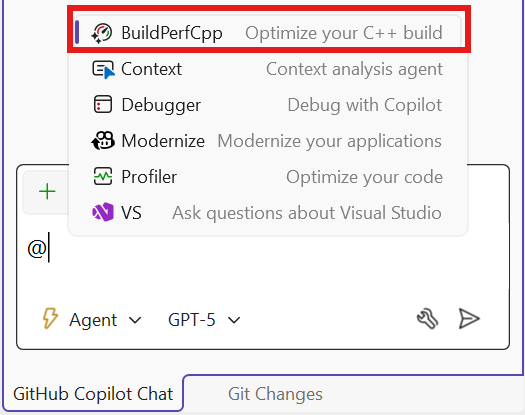
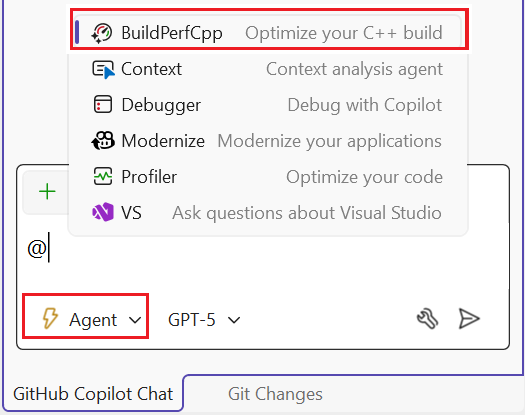
first edit pass

Changed region(s): [[0.1219, 0.0, 0.9143, 0.1446], [0.0305, 0.694, 0.3048, 0.8386]]

diff --git a/docs/build-insights/build-performance.md b/docs/build-insights/build-performance.md
@@ -1,194 +1,176 @@
 ---
 title: "Get Started with GitHub Copilot build performance for Windows"
 description: "Learn how to use GitHub Copilot build performance for Windows to analyze C++ builds, identify expensive headers and templates, and automatically optimize build times in Visual Studio 2026."
-ms.date: 1/20/2026
+ms.date: 01/21/2026
 helpviewer_keywords: ["GitHub Copilot build performance", "C++ Build Insights", "build time optimization", "header file analysis", "template instantiation", "Visual Studio build performance"]
 ms.topic: how-to
 ---
 
-# Get Started with GitHub Copilot build performance for Windows 
+# Get started with GitHub Copilot build performance for Windows 
 
-The GitHub Copilot build performance for Windows analyzes your C++ builds and highlights expensive headers, templates, and functions so you can identify and fix build time bottlenecks. GitHub Copilot integrates seamlessly with Visual Studio, reducing complexity and improving developer productivity.
+The GitHub Copilot build performance for Windows analyzes your C++ builds and highlights expensive headers, template instantiations, and functions so you can identify and fix build time bottlenecks. GitHub Copilot is integrated with Visual Studio.
 
 ## Prerequisites 
 
-- Windows 10 or later.
+- Visual Studio 2026. Install the latest available version here: [Installation Guide](/visualstudio/install/install-visual-studio)
+- MSVC Build Tools version 14.50 or later.
 - An MSBuild or CMake project.
-- MSVC Build Tools version 14.50.
-
-## Installing Visual Studio 2026
-
-To use GitHub Copilot build performance for Windows, you must install the latest available **Visual Studio 2026**.
-
-[Installation Guide](/visualstudio/install/install-visual-studio)
-
-Visual Studio 2026 supports **side-by-side installation** with older versions. You do not need to uninstall previous versions or other release channels. Installing Visual Studio 2026 will not interfere with your existing development environment. 
+- Windows 10 or later.
 
 ### Before you begin 
 
-After installing the Visual Studio Installer, ensure the following components are selected under the **Desktop development with C++** [workload](/visualstudio/install/install-visual-studio#step-4---choose-workloads) during installation:
+In the Visual Studio 2026 Installer, ensure the following components are selected in the **Desktop development with C++** [workload](/visualstudio/install/install-visual-studio#step-4---choose-workloads):
 
-- C++ Build Insights
-- C++ profiling tools
-- C++ CMake tools for Windows (required for CMake projects) 
+- **C++ Build Insights**
+- **C++ profiling tools**
+- **C++ CMake tools for Windows (required for CMake projects)**
 
-:::image type="complex" source="./media/vs-installer-options.png" alt-text="This installer view highlights the available optional components within the Desktop development with C++ workload, helping users confirm that tools required for build analysis and performance optimization are included during setup.":::
+:::image type="complex" source="./media/vs-installer-options.png" alt-text="Screenshot of the Visual Studio installer. The desktop development with C++ section is highlighted and C++ Build Insights, C++ profiling tools, and C++ CMake tools for Windows are selected.":::
 The list shows C++ Build Insights, C++ profiling tools, and C++ CMake tools for Windows are all selected for installation.
 :::image-end:::
 
-## Verify GitHub Copilot subscription
+### Verify your GitHub Copilot subscription
 
-GitHub Copilot build performance for Windows is available to users on GitHub Copilot Pro, Pro+, Business, and Enterprise plans.  
+To use GitHub Copilot build performance for Windows, you need a GitHub Copilot Pro, Pro+, Business, or Enterprise subscription.
 
-- Verify your subscription 
+Verify your GitHub Copilot subscription on GitHub, and then sign in to your GitHub account in Visual Studio 2026:
 
-  - Log in to [https://github.com](https://github.com/) and access the [Copilot features](https://github.com/settings/copilot/features)
+1. Verify your GitHub Copilot subscription:
+  - Sign in to [https://github.com](https://github.com/).
+  - Select your profile picture and then [Copilot settings](https://github.com/settings/copilot/features). Your plan type appears near the top of the page:
 
-  - Your plan type will appear near the top of the page. 
-
-    :::image type="complex" source="./media/copilot-subscription.png" alt-text="Banner in GitHub account settings confirming that GitHub Copilot Enterprise is active, with quick-access buttons for various Copilot features including IDE, CLI, mobile, GitHub.com, and more.":::
-    This banner provides context for where subscription details are displayed within GitHub’s account settings interface.
+    :::image type="complex" source="./media/copilot-subscription.png" alt-text="Screenshot of the users GitHub Copilot information.":::
+    The Copilot settings page shows the type of subscription. In this case, the user has GitHub Copilot Enterprise.
     :::image-end:::
 
-- Authenticate in Visual Studio 2026
+1. Sign in to your GitHub account in Visual Studio:
 
-  Before proceeding, ensure you are signed in to your GitHub account in Visual Studio.
+  - If you're not signed in to GitHub in Visual Studio, open the GitHub Copilot Chat and follow the sign-in instructions in the pop-up window.
+  - Select your profile picture in Visual Studio to confirm your GitHub sign-in status:
 
-  - Click on your profile picture in the upper-right corner of Visual Studio to confirm your GitHub login status.
-
-    :::image type="complex" source="./media/vs-account-authentication.png" alt-text="Visual Studio account dropdown showing an active login session with a Microsoft account and a connected GitHub account, both marked as active and synced.":::
-    The dropdown displays the GitHub account with active status and sync indicator.
+    :::image type="complex" source="./media/vs-account-authentication.png" alt-text="Screenshot of the account dropdown in Visual Studio.":::
+    The account dropdown shows that a Microsoft account and a GitHub account are both signed in and active.
     :::image-end:::
 
-  - If you are not signed in, open the GitHub Copilot Chat and follow the sign-in instructions from the pop-up window.
+### Enable template collection
 
-  - Once authenticated, you can verify your plan by selecting Copilot Usage from the dropdown menu under the GitHub Copilot badge.
+To minimize analysis overhead, the template instantiation time collection is off by default. To turn it on:
 
-### Enable Template Collection
-
-Template instantiation time collection is off by default to minimize analysis overhead. To turn it on:
-
-  1.  In Visual Studio, go to **Tools** \> **Options**.
-
-  2.  In the **Options** dialog, expand **Build Insights** in the left navigation.
-
-  3.  Select **Collect Template Instantiation**.
+  1. In Visual Studio, go to **Tools** > **Options**.
+  1. In the **Options** dialog, expand **Build Insights**.
+  1. Select **Collect Template Instantiation**.
 
 :::image type="complex" source="./media/build-insights-options.png" alt-text="Build Insights settings page in Visual Studio Options with the Collect template instantiation checkbox enabled, displaying trace collection configurations for analysis.":::
 The dialog shows trace collection settings with the Collect template instantiation checkbox selected.
 :::image-end:::
 
-*Learn more:* [Troubleshoot template instantiation impact on build time | Microsoft Learn](/cpp/build-insights/tutorials/build-insights-template-view)
+For more information about template instantiation on build time, see [Troubleshoot template instantiation impact on build time | Microsoft Learn](/cpp/build-insights/tutorials/build-insights-template-view)
 
-## Workflow
+## Troubleshoot build performance with GitHub Copilot
 
-GitHub Copilot build performance on Windows is available via the GitHub Copilot chat pane. Users can access this functionality through the Agent feature within the chat interface.
+View GitHub Copilot build performance on Windows via the GitHub Copilot chat pane. Choose the **Agent** feature within the chat interface:
 
-:::image type="complex" source="./media/copilot-build-perf-select.png" alt-text="GitHub Copilot chat pane showing agent selection. The GitHub Copilot build performance on Windows is highlighted as the option to select.":::
-The pane shows GitHub Copilot build performance for Windows selected to optimize C++ build, with other agents listed.
+:::image type="complex" source="./media/copilot-build-perf-select.png" alt-text="Screenshot of the GitHub Copilot chat pane.":::
+The GitHub Copilot chat pane shows a list of agents to choose from. Build Perf C p p (optimize your c + + build) is selected.
 :::image-end:::
 
-Before submitting a request to the GitHub Copilot, select your preferred model.
+Select your preferred model in the model drowpdown menu:
 
-:::image type="complex" source="./media/model-select.png" alt-text="Model selection menu in Copilot Chat showing available AI models including GPT-5, GPT-5.1, Claude, and Gemini, with usage rate indicators.":::
-This dropdown provides context on the range of AI models available when initiating a performance analysis.
+:::image type="complex" source="./media/model-select.png" alt-text="Screenshot of the model selection menu in the Copilot Chat window.":::
+This dropdown lists models various models like GPT-5, CLaude Sonnet 4, Gemini 3 Pro, and others.
 :::image-end:::
 
-Instruct GitHub Copilot to improve the build performance of your selected project. You can add additional context and information so that GitHub Copilot can create suggestions that match the needs of your project.
+Instruct GitHub Copilot to improve the build performance of your selected project. You can add extra context so that GitHub Copilot can better make suggestions to match the needs of your project.
 
-:::image type="complex" source="./media/copilot-build-request.png" alt-text="Copilot Chat interface where the user has entered a request for build performance improvement using GitHub Copilot build performance on Windows.":::
-The window shows GitHub Copilot build performance for Windows with user message requesting build performance improvement for the project.
+:::image type="complex" source="./media/copilot-build-request.png" alt-text="Screenshot of the GitHub Copilot Chat window.":::
+The GitHub Copilot chat window shows @ Build Per Cpp: Help me improve the build performance of this project.
 :::image-end:::
 
-### Enable Build Insights
+If this is your first time using GitHub Copilot build performance for Windows, you'll need to enable Build Insights and grant elevated permissions to collect MSVC compiler traces.
 
-To analyze the build performance of the selected project, Visual Studio needs elevated permissions. The Build Insights tool needs to be enabled for a first-time user to kickstart the build performance analysis.
+### Grant additional permissions to run Build Insights
 
-*Learn more:* [Build Insights needs additional permissions | Microsoft Learn](/cpp/build-insights/elevate-note)
+Visual Studio needs elevated permissions to analyze build performance. The Build Insights tool needs to be enabled to start the build performance analysis. Once enabled, it stays enabled until you disable it. For more information about these permissions, see [Build Insights needs additional permissions](/cpp/build-insights/elevate-note). Github copilot prompts you to enable Build Insights and grant elevated permissions:
 
-:::image type="complex" source="./media/build-insights-permission.png" alt-text="Visual Studio dialog titled Run Build Insights requesting permission to start build analysis, with Confirm and Deny buttons.":::
-This dialog appears when Visual Studio is preparing to launch the profiling tools necessary for trace generation.
+:::image type="complex" source="./media/build-insights-permission.png" alt-text="Screenshot of a GitHub Copilot dialog asking to elevate permissions.":::
+The dialog indicates that Build Insights (vcperf) needs additional permissions to capture MSVC compiler traces. There are Confirm and Deny buttons.
 :::image-end:::
 
-A one-time elevated request is then needed to capture the MSVC compiler traces.
+Choose **Confirm** to have GitHub Copilot proceed with the request. A Visual Studio dialog then appears prompting you to allow a one-time elevated request:
 
-:::image type="complex" source="./media/msvc-elevation.png" alt-text="Microsoft Visual Studio prompt requesting elevated permissions for Build Insights to collect MSVC compiler traces, displaying Yes and No options.":::
-This prompt provides system-level acknowledgment of the resource access required for tracing.
+:::image type="complex" source="./media/msvc-elevation.png" alt-text="Screenshot of a Microsoft Visual Studio prompt requesting elevated permissions.":::
+The elevation prompt says: Build Insights (vcperf) needs additional permissions to capture MSVC compiler traces. Allow this one-time elevated request? There are Yes and No buttons.
 :::image-end:::
 
-:::image type="complex" source="./media/windows-user-account-control.png" alt-text="Windows User Account Control dialog asking whether to allow the Windows Command Processor to make changes, with Yes and No choices.":::
-This UAC dialog is part of Windows’ layer of elevation confirmation and appears when enabling Build Insights for the first time.
+If you choose to grant elevated permissions, the Windows User Account Control dialog appears. Choose **Yes** to grant permission to capture the MSVC compiler traces:
+
+:::image type="complex" source="./media/windows-user-account-control.png" alt-text="Screenshot of the User Account Control dialog.":::
+The dialog asks for permission for the Windows Command Processor, verified publisher Microsoft, to allow this app to make changes to your device. There are Yes and No buttons.
 :::image-end:::
 
-If the one-time elevated request is denied, the Build Insights operation is cancelled due to lack of rights to continue.
+Denying the elevated request will cancel the Build Insights operation.
 
+## Guide GitHub Copilot through the process of improving the build time
 
-You will guide GitHub Copilot through the process of improving the build time by providing permission, as needed, to run tools. Additional permissions may be required to run PowerShell scripts.
+As you guide GitHub Copilot through the process of improving the build time, you will be asked to provide permission, as needed, to run tools such as PowerShell scripts:
 
-:::image type="complex" source="./media/terminal-permission.png" alt-text="Copilot Chat notification prompting the user to authorize execution of a terminal command, offering Confirm, Always allow, and Allow in this session.":::
-This prompt appears within the chat flow when Copilot requires permission to run terminal commands necessary for optimization.
+:::image type="complex" source="./media/terminal-permission.png" alt-text="Screenshot of a Copilot Chat notification.":::
+The prompt asks the user to authorize running the command: ls ../src/ in the terminal. The Confirm dropdown offers: Always allow and Allow in this session. There is also a Deny button.
 :::image-end:::
 
-The GitHub Copilot build performance for Windows goes through multiple iterations of code implementation to make the build faster.
+The GitHub Copilot build performance for Windows may go through multiple iterations to find the best way to make the build faster:
 
-:::image type="complex" source="./media/build-analysis-complete.png" alt-text="The display shows build time improved from 78.6 seconds to 70.5 seconds (8.1 seconds faster, ~10.3% improvement), with a note that further improvement is possible.":::
-This image provides contextual insight into how build metrics are presented after an optimization iteration.
+:::image type="complex" source="./media/build-analysis-complete.png" alt-text="Screenshot of a message in the GitHub Copilot chat window.":::
+The message indicates that analysis is complete and the build time improved from 78.6 seconds to 70.5 seconds (8.1 seconds faster, ~10.3% improvement). It indicates there's still room for improvement.
 :::image-end:::
 
-After GitHub Copilot completes the request, a summary of the changes and build performance impact is displayed. The build performance summary changes depending on each iteration of the agent.
+When the analysis is complete, GitHub Copilot displays a summary of the changes and build performance impact for that iteration:
 
-:::image type="complex" source="./media/build-summary.png" alt-text="A summary view comparing build performance before and after optimization. The report shows build time dropping from about 110.7 seconds to 34.1 seconds, with major header bottlenecks significantly reduced. It highlights a 69% overall improvement and faster incremental rebuilds after precompiled headers were enabled.":::
-The summary displays top bottlenecks and quantitative results of the performance improvements.
+:::image type="complex" source="./media/build-summary.png" alt-text="Screenshot of the build performance summary.":::
+The summary shows a before and after optimization summary indicating build time, the top bottleneck, and the top 5 headers that contributed the most to the build time. The report shows build time dropping from 110.7 seconds to 34.1 seconds. It highlights a 69.2% overall improvement and faster incremental rebuilds after enabling precompiled headers.
 :::image-end:::
 
 In this case, build time dropped from **110.7s to 34.1s** after enabling precompiled headers for costly includes, delivering a **69% improvement** and **3.2× faster builds** with near-instant incremental rebuilds.
 
-### Additional entry points
+### Other ways to access GitHub Copilot build performance for Windows
 
-The GitHub Copilot build performance for Windows can be accessed through other entry points.
+You can access the GitHub Copilot build performance for Windows in these other ways:
 
-- Button from build menu
+- The **Build** menu:
 
-  :::image type="complex" source="./media/build-menu-improve.png" alt-text="Visual Studio Build menu expanded with the Improve build performance option highlighted under Run Build Insights.":::
-  The menu shows the Improve build performance option under Run Build Insights.
+  :::image type="complex" source="./media/build-menu-improve.png" alt-text="Screenshot of the Build menu."":::
+  The Build menu option Run Build Insights is expanded to show Build All, Rebuild All, and Improve Build Performance. The latter is selected.
   :::image-end:::
 
-    Clicking the Improve build performance button prompts GitHub Copilot chat
+- Select a **Improve build performance** prompt in GitHub Copilot chat:
 
-    :::image type="complex" source="./media/copilot-improve-prompt.png" alt-text="Copilot chat window with Improve Build Performance prompt.":::
-    The window shows GitHub Copilot build performance for Windows ready to assist with optimization.
+    :::image type="complex" source="./media/copilot-improve-prompt.png" alt-text="Screenshot of the Copilot chat window.":::
+    The chat window shows a prompt to Improve Build Performance.
     :::image-end:::
 
-- Button from solution context menu
+- **Solution** window context menu:
 
-  :::image type="complex" source="./media/solution-menu-improve.png" alt-text="Solution context menu in Visual Studio showing Improve build performance on Solution among the available commands.":::
-  The context menu displays the Improve build performance on Solution option.
+  :::image type="complex" source="./media/solution-menu-improve.png" alt-text="A screenshot of the Solution explorer.":::
+  The context menu shows Build Solution, Build Solution, and so on. Improve build performance on Solution is highlighted.
   :::image-end:::
 
-  Clicking the Improve build performance on Solution button prompts the GitHub Copilot chat
+  Select **Improve build performance on Solution** to open the GitHub Copilot chat window, which prompts you to optimize the build performance of your project.
 
-  :::image type="complex" source="./media/copilot-improve-prompt.png" alt-text="Copilot chat window with a request to help improve the build performance of this project.":::
-  The window shows GitHub Copilot build performance for Windows request to assist with build optimization.
+  :::image type="complex" source="./media/copilot-improve-prompt.png" alt-text="Screenshot of the Copilot chat window.":::
+  The chat window shows a prompt to Improve Build Performance.
   :::image-end:::
 
-- Button from Build Insights view
+- Build Insights view:
 
-  :::image type="complex" source="./media/insights-improve-button.png" alt-text="Build Insights diagnostics session interface with the Improve button visible for triggering optimization using existing trace data.":::
-  The view shows the diagnostics session with the Improve button available for optimization.
+  Select **Improve** from the Build Insights diagnostics session view to open the GitHub Copilot chat window, which prompts you to optimize the build performance of your project, shown previously. This button uses data from the existing build insights trace results and doesn't trigger a new build insights tool execution until the current changes are processed.
+
+  :::image type="complex" source="./media/insights-improve-button.png" alt-text="Screenshot of the Build Insights view window.":::
+  The Improve link is highlighted.
   :::image-end:::
 
-  Clicking the Improve button prompts the GitHub Copilot chat. This button uses data from the existing build insights trace results and does not trigger a new build insights tool execution until the current proposed changes have been processed.
+## See also
 
-  :::image type="complex" source="./media/copilot-improve-includes.png" alt-text="Copilot chat with request to help improve the build performance of this project, focusing on includes.":::
-  Copilot Chat showing a user request specifically targeting include file optimization as part of the build performance improvements.
-  :::image-end:::
-
-## See Also
-
-[Build Insights function view](/cpp/build-insights/tutorials/build-insights-function-view)
-
-[Build Insights included files view](/cpp/build-insights/tutorials/build-insights-included-files-view)
-
-[vcperf and Windows Performance Analyzer](/cpp/build-insights/tutorials/vcperf-and-wpa)
-
+[Build Insights function view](/cpp/build-insights/tutorials/build-insights-function-view)\
+[Build Insights included files view](/cpp/build-insights/tutorials/build-insights-included-files-view)\
+[vcperf and Windows Performance Analyzer](/cpp/build-insights/tutorials/vcperf-and-wpa)\
 [Windows Performance Analyzer basics](/cpp/build-insights/tutorials/wpa-basics)
